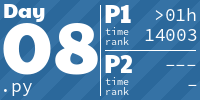
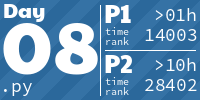
2023 - Day 8, part 2
Checked solutions on Reddit and quite quickly got the correct algorithm in place.

Changed region(s): [[0.72, 0.78, 0.99, 0.93], [0.78, 0.57, 0.99, 0.72]]

diff --git a/ibidem/advent_of_code/y2023/dec08.py b/ibidem/advent_of_code/y2023/dec08.py
@@ -1,4 +1,5 @@
 #!/usr/bin/env python
+import math
 import re
 from itertools import cycle
 
@@ -30,13 +31,17 @@ def part2(input):
     directions, map = input
     current = [node for node in map.keys() if node.endswith("A")]
     print(f"Stepping {len(current)} nodes: {current}")
+    cycle_lengths = [get_steps(start, directions, map) for start in current]
+    return math.lcm(*cycle_lengths)
+
+
+def get_steps(start, directions, map):
+    current = start
     for step, direction in enumerate(cycle(directions)):
-        current = [map[c][direction] for c in current]
-        if all(c.endswith("Z") for c in current):
+        current = map[current][direction]
+        if current.endswith("Z"):
             return step + 1
-        if step % 1000000 == 0:
-            print(f"Step {step}: {current}")
-    raise RuntimeError("No ZZZ found")
+    raise RuntimeError("No end location found")
 
 
 if __name__ == "__main__":
